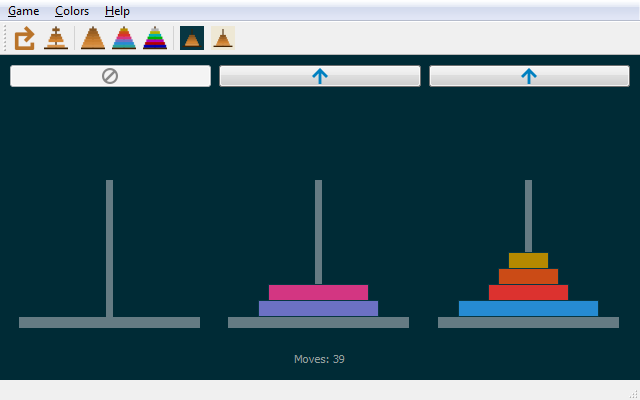
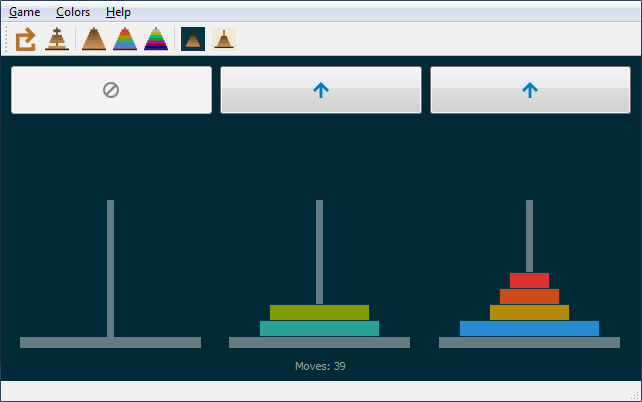
code and look update

diff --git a/tower-of-hanoi.py b/tower-of-hanoi.py
@@ -2,6 +2,7 @@
 # coding: utf-8
 
 from PySide2 import QtWidgets, QtCore, QtGui
+import functools
 
 class MainWindow(QtWidgets.QMainWindow):
 
@@ -50,6 +51,7 @@ class MainWindow(QtWidgets.QMainWindow):
         item_G_Q = QtWidgets.QAction(QtGui.QIcon("icons/exit.png"), "&Quit", self)
         menuGame.addAction(item_G_R)
         menuGame.addAction(item_G_D)
+        menuGame.addSeparator()
         menuGame.addSeparator()
         menuGame.addAction(item_G_Q)
         item_G_R.triggered.connect(self.init_state)
@@ -107,36 +109,28 @@ class MainWindow(QtWidgets.QMainWindow):
         self.content = QtWidgets.QLabel()
         self.content.setAutoFillBackground(True)
 
-        self.content.button1 = QtWidgets.QPushButton()
-        self.content.button2 = QtWidgets.QPushButton()
-        self.content.button3 = QtWidgets.QPushButton()
-        self.content.button1.clicked.connect(lambda: self.pick_or_drop(0))
-        self.content.button2.clicked.connect(lambda: self.pick_or_drop(1))
-        self.content.button3.clicked.connect(lambda: self.pick_or_drop(2))
+        layout = QtWidgets.QGridLayout()
+        self.content.pushButtons = []
+        self.content.towers = []
+        for i in range(3):
+            button = QtWidgets.QPushButton()
+            button.setFixedHeight(50)
+            button.clicked.connect(functools.partial(self.pick_or_drop, i))
+            layout.addWidget(button, 0, i)
+            self.content.pushButtons.append(button)
+            tower = QtWidgets.QLabel()
+            layout.addWidget(tower, 2, i, 1, 1, QtCore.Qt.AlignCenter)
+            self.content.towers.append(tower)
 
         self.content.hand = QtWidgets.QLabel()
-        self.content.tower1 = QtWidgets.QLabel()
-        self.content.tower2 = QtWidgets.QLabel()
-        self.content.tower3 = QtWidgets.QLabel()
-
         self.content.message = QtWidgets.QLabel()
-        self.content.message.setAlignment(QtCore.Qt.AlignCenter)
-
-        layout = QtWidgets.QGridLayout()
-        layout.addWidget(self.content.button1, 0, 1)
-        layout.addWidget(self.content.button2, 0, 2)
-        layout.addWidget(self.content.button3, 0, 3)
-        layout.addWidget(self.content.hand, 1, 1, 1, 3, QtCore.Qt.AlignCenter)
-        layout.addWidget(self.content.tower1, 2, 1)
-        layout.addWidget(self.content.tower2, 2, 2)
-        layout.addWidget(self.content.tower3, 2, 3)
-        layout.addWidget(self.content.message, 3, 1, 1, 3)
+        layout.addWidget(self.content.hand, 1, 0, 1, 3, QtCore.Qt.AlignCenter)
+        layout.addWidget(self.content.message, 3, 0, 1, 3, QtCore.Qt.AlignCenter)
         self.content.setLayout(layout)
         self.setCentralWidget(self.content)
         self.color_setting = "rainbow"
         self.set_fg_bg(fg=self.base1, bg=self.base03)
         self.init_state()
-        # print(item_G_Q.shortcut(), self.content.button1.shortcut())
 
     def init_state(self):
         self.numMoves = 0
@@ -147,20 +141,18 @@ class MainWindow(QtWidgets.QMainWindow):
         self.set_colors()
         self.content.message.setText("")
         self.statusBar().clearMessage()
-        self.pick_or_drop = self.pick
 
     def pick(self, n):
-        if self.can_be_picked(n):
+        if self.stacks[n]:
             self.lastPick = n
             self.hand = self.stacks[n].pop()
             self.draw_tower(n)
             self.draw_hand()
             self.statusBar().clearMessage()
             self.prepare_pushbuttons("drop")
-            self.pick_or_drop = self.drop
 
     def drop(self, n):
-        if self.can_be_dropped(n):
+        if self.stacks[n] == [] or self.stacks[n][-1] > self.hand:
             stack = self.stacks[n]
             stack.append(self.hand)
             self.draw_tower(n)
@@ -168,28 +160,35 @@ class MainWindow(QtWidgets.QMainWindow):
             self.draw_hand()
             self.statusBar().clearMessage()
             self.prepare_pushbuttons("pick")
-            if n != self.lastPick:    # returning a disk to the same position won't count as a move
+            # returning a disk to the same position won't count as a move
+            if n != self.lastPick:
                 self.numMoves += 1
                 self.content.message.setText("Moves: {}".format(self.numMoves))
-            if n == 2 and stack == self.target:    # when dropping on tower 3, test if we are finished
+            # when dropping on tower 2 or 3, test if we are finished
+            if (n == 1 and stack == self.target) or (n == 2 and stack == self.target):
                 self.content.message.setText("Congratulations, puzzle solved in {} moves".format(self.numMoves))
-                for btn in [self.content.button1, self.content.button2, self.content.button3]:
+                for btn in self.content.pushButtons:
                     btn.setIcon(QtGui.QIcon("icons/ok.png"))
                     btn.setEnabled(False)
                     btn.setStatusTip("")
-            self.pick_or_drop = self.pick
+
+    def pick_or_drop(self, n):
+        if self.hand:
+            self.drop(n)
+        else:
+            self.pick(n)
 
     def prepare_pushbuttons(self, for_what):
         for i in range(3):
-            btn = [self.content.button1, self.content.button2, self.content.button3][i]
+            btn = self.content.pushButtons[i]
             key = "{}".format(i + 1)
-            if for_what == "pick" and self.can_be_picked(i):
+            if for_what == "pick" and self.stacks[i]:
                 btn.setIcon(QtGui.QIcon("icons/up.png"))
                 btn.setEnabled(True)
                 btn.setShortcut(key)
                 btn.setStatusTip("Pick from the {} tower ({})".format(["first", "second", "third"][i], key))
                 btn.setShortcutAutoRepeat(False)   # not working
-            elif for_what == "drop" and self.can_be_dropped(i):
+            elif for_what == "drop" and (self.stacks[i] == [] or self.stacks[i][-1] > self.hand):
                 btn.setIcon(QtGui.QIcon("icons/down.png"))
                 btn.setEnabled(True)
                 btn.setShortcut(key)
@@ -200,20 +199,7 @@ class MainWindow(QtWidgets.QMainWindow):
                 btn.setEnabled(False)
                 btn.setStatusTip("")
 
-    def can_be_picked(self, n):
-        if self.stacks[n]:
-            return True
-        else:
-            return False
-
-    def can_be_dropped(self, n):
-        if self.stacks[n] == [] or self.stacks[n][-1] > self.hand:
-            return True
-        else:
-            return False
-
     def draw_tower(self, n):
-        tower = [self.content.tower1, self.content.tower2, self.content.tower3][n]
         stack = self.stacks[n]
         img = QtGui.QImage(200, 200, QtGui.QImage.Format_ARGB32)
         img.fill(self.content.backgroundRole())
@@ -234,7 +220,7 @@ class MainWindow(QtWidgets.QMainWindow):
             painter.drawRoundedRect((img.width() - diskWidth)//2, baseTop - 1 - (i+1)*self.diskHeight, diskWidth, self.diskHeight, 0, 0)
         painter.end()
         pixmap = QtGui.QPixmap.fromImage(img)
-        tower.setPixmap(pixmap)
+        self.content.towers[n].setPixmap(pixmap)
 
     def draw_hand(self):
         img = QtGui.QImage(400, 40, QtGui.QImage.Format_ARGB32)
@@ -295,33 +281,37 @@ class MainWindow(QtWidgets.QMainWindow):
             layout.addWidget(rbutton, (i - 3)//2, 1 - i%2)
         rbuttonGroup.button(self.numDisks).setChecked(True)
         buttonOK = QtWidgets.QPushButton("OK")
-        buttonOK.clicked.connect(lambda: self.set_difficulty(rbuttonGroup.checkedId()))
-        layout.addWidget(buttonOK, 3, 0, 1, 2)
+        buttonCancel = QtWidgets.QPushButton("Cancel")
+        buttonOK.clicked.connect(self.dialog.accept)
+        buttonCancel.clicked.connect(self.dialog.reject)
+        self.dialog.accepted.connect(lambda: self.set_difficulty(rbuttonGroup.checkedId()))
+        layout.addWidget(buttonOK, 3, 0)
+        layout.addWidget(buttonCancel, 3, 1)
         self.dialog.setLayout(layout)
         self.dialog.show()
 
     def set_difficulty(self, n):
         self.numDisks = n
-        self.dialog.close()
         self.init_state()
 
     def help_message(self):
         msg = QtWidgets.QMessageBox()
         msg.setWindowTitle("How to play")
-        msg.setIconPixmap(QtGui.QPixmap("icons/5disks.png"))
-        msg.setText("""<center>Goal of the game</p>
-                       <p>The optimum number of moves is always <b>2<sup>n</sup>-1</b>,<br/>where <b>n</b> is the number of disks.</p>
-                       <p>Source: <a href="https://en.wikipedia.org/wiki/Tower_of_Hanoi">Wikipedia</a></p></center>""")
+        msg.setIconPixmap(QtGui.QPixmap("icons/5disks_color.png"))
+        msg.setText("""<center><p>To pick or drop disks, click on corresponding buttons or use keys 1, 2 and 3.</p>
+<p>The goal of the game is to move the entire stack to another rod, obeying the following simple rules:</p>
+<ul><li>only one disk can be moved at a time</li>
+<li>each move consists of taking the upper disk from one of the stacks and placing it on top of another stack or on an empty rod</li>
+<li>no disk may be placed on top of a smaller disk</li></ul>
+<p>Source: <a href="https://en.wikipedia.org/wiki/Tower_of_Hanoi">Wikipedia</a></p></center>""")
         msg.exec_()
 
     def about_message(self):
         msg = QtWidgets.QMessageBox()
         msg.setWindowTitle("About Tower of Hanoi")
         msg.setIconPixmap(QtGui.QPixmap("icons/5disks.png"))
-        msg.setText("""<center><b>Tower of Hanoi</b><p>version 0.9, 25th October 2018</p>
-                       <p>Written in <a href="https://wiki.qt.io/Qt_for_Python">Qt for Python</a> (PySide2).</p>
-                       <p>Hosted at <a href="https://github.com/myrmica-habilis/tower-of-hanoi">Github</a>.</p>
-                       <p>Rainbow colors by <a href="https://ethanschoonover.com/solarized">Solarized</a>.</p></center>""")
+        msg.setText("""<center><b>Tower of Hanoi</b><p>version 0.9.5, 6th November 2018</p>
+<p>Hosted at <a href="https://github.com/myrmica-habilis/tower-of-hanoi">Github</a>.</p></center>""")
         msg.exec_()
 
     def run(self, app):

diff --git a/README.md b/README.md
@@ -3,15 +3,14 @@ Simple old puzzle game written in Python & Qt for Python (PySide2)
 
 https://en.wikipedia.org/wiki/Tower_of_Hanoi
 
-Screenshot with six disks:
+Screenshot:
 
-![Rainbow colors, dark background](screenshots/dark-bg.png)
+![Screenshot – dark background, rainbow colors, six disks](screenshots/dark-bg.png)
 
-Screenshot with seven disks:
+Screenshot:
 
-![Natural colors, light background](screenshots/light-bg.png)
+![Screenshot – light background, natural colors, seven disks](screenshots/light-bg.png)
 
 ### To do:
-* write a short info & the rules of the game (Help > How to play, with an icon of e.g. a book)
 * allow to play by clicking on the towers themselves (and possibly remove the pushbuttons)
-* final polishing of code readability
+* final polishing of code
